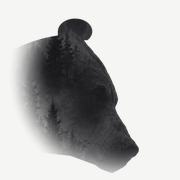
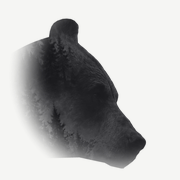
Сайт: значок — ухо как на обложке, голова чуть выше
Claude-Session: https://claude.ai/code/session_01Uu83MB45nkJX1tXJZPePva

diff --git a/site/index.html b/site/index.html
@@ -7,9 +7,9 @@
 <meta name="description" content="Лана Фрейтаг — любовные романы. Новые главы на Литнете.">
 <meta name="theme-color" content="#fbfbfd" media="(prefers-color-scheme: light)">
 <meta name="theme-color" content="#0f0f13" media="(prefers-color-scheme: dark)">
-<link rel="icon" type="image/png" sizes="32x32" href="icon-32.png?8">
-<link rel="icon" type="image/png" sizes="512x512" href="icon-512.png?8">
-<link rel="apple-touch-icon" href="icon-bear.png?8">
+<link rel="icon" type="image/png" sizes="32x32" href="icon-32.png?9">
+<link rel="icon" type="image/png" sizes="512x512" href="icon-512.png?9">
+<link rel="apple-touch-icon" href="icon-bear.png?9">
 <link rel="preconnect" href="https://fonts.googleapis.com">
 <link rel="preconnect" href="https://fonts.gstatic.com" crossorigin>
 <link rel="stylesheet" href="https://fonts.googleapis.com/css2?family=Cormorant:ital,wght@1,400;1,500&family=Golos+Text:wght@400;500&family=Oranienbaum&display=swap">

diff --git a/site/admin/index.html b/site/admin/index.html
@@ -5,9 +5,9 @@
 <meta name="viewport" content="width=device-width, initial-scale=1, viewport-fit=cover">
 <meta name="robots" content="noindex">
 <title>Сайт · админка</title>
-<link rel="icon" type="image/png" sizes="32x32" href="../icon-32.png?8">
-<link rel="icon" type="image/png" sizes="512x512" href="../icon-512.png?8">
-<link rel="apple-touch-icon" href="../icon-bear.png?8">
+<link rel="icon" type="image/png" sizes="32x32" href="../icon-32.png?9">
+<link rel="icon" type="image/png" sizes="512x512" href="../icon-512.png?9">
+<link rel="apple-touch-icon" href="../icon-bear.png?9">
 <link rel="preconnect" href="https://fonts.googleapis.com">
 <link rel="preconnect" href="https://fonts.gstatic.com" crossorigin>
 <link rel="stylesheet" href="https://fonts.googleapis.com/css2?family=Cormorant:ital,wght@1,400;1,500&family=Golos+Text:wght@400;500&family=Oranienbaum&display=swap">

diff --git a/AGENTS.md b/AGENTS.md
@@ -37,7 +37,7 @@
   последний призыв; на телефоне кнопка «Читать» внизу появляется, когда главная ушла из виду.
   Пустые разделы не показываются. Цитаты, отрывки, отзывы — только настоящие (из книг/от читателей), не выдумывать.
   Первый экран главной — без обложек книг: слева заголовок и кнопка, справа **медведь в тумане над лесом — кадр с её обложки
-  «Звериная тропа для двоих»** (`site/hero-bear.jpg`, без лица героини и названия; значок вкладки — как у крупных сайтов: прозрачный фон, крупно (на весь значок) настоящая голова медведя с той же обложки (глаз, нос, шерсть; затылок уходит в туман), с чётким силуэтом (контур профиля с обложки, ухо низкое и широкое, полукругом (высокое круглое на ножке она назвала неприличным, «палку» — тоже), челюсть точно по обложке: низ челюсти от подбородка идёт назад и ВВЕРХ (линия через x 905→848 при y 679→650 в координатах обложки), шеи нет; голова без поворота, как на обложке (толстую шею и второй подбородок она назвала «жирный»), затылок и низ растворяются мягко по кругу от морды (прямоугольные края растушёвки — нет), фактура внутри едва заметная, голова чуть приподнята — морда вперёд, внутри фактура обложки; затылок и шея тают к краю) — размытая голова во вкладке «сливается»; белый ореол на розовой вкладке некрасив; плитку под значком она не хочет; для iPhone (`icon-bear.png`) — на светлом фоне; чёрный силуэт (и обведённый, и нарисованный) она отвергла, мелкую голову в круге — тоже (`site/icon-32.png`, `icon-bear.png` 180, `icon-512.png`; рисованного кодом медведя она отвергла))
+  «Звериная тропа для двоих»** (`site/hero-bear.jpg`, без лица героини и названия; значок вкладки — как у крупных сайтов: прозрачный фон, крупно (на весь значок) настоящая голова медведя с той же обложки (глаз, нос, шерсть; затылок уходит в туман), с чётким силуэтом (контур профиля с обложки, ухо низкое и широкое, полукругом (высокое круглое на ножке она назвала неприличным, «палку» — тоже), челюсть точно по обложке: низ челюсти от подбородка идёт назад и ВВЕРХ (линия через x 905→848 при y 679→650 в координатах обложки), шеи нет; голова приподнята совсем чуть-чуть (на 8°); ухо — сглаженный контур уха с обложки, округлое, умеренной высоты, чуть отклонено назад (толстую шею и второй подбородок она назвала «жирный»), затылок и низ растворяются мягко по кругу от морды (прямоугольные края растушёвки — нет), фактура внутри едва заметная, голова чуть приподнята — морда вперёд, внутри фактура обложки; затылок и шея тают к краю) — размытая голова во вкладке «сливается»; белый ореол на розовой вкладке некрасив; плитку под значком она не хочет; для iPhone (`icon-bear.png`) — на светлом фоне; чёрный силуэт (и обведённый, и нарисованный) она отвергла, мелкую голову в круге — тоже (`site/icon-32.png`, `icon-bear.png` 180, `icon-512.png`; рисованного кодом медведя она отвергла))
   или другая картинка `photo`. Картинка 1300×1000: только голова медведя (ели ВНУТРИ силуэта — как на обложке, можно) из обложки
   в полном разрешении, мягко выходит из лёгкого тумана; дымка обложки переведена в белый (смешивание multiply с фоном).
   Текст и медведь — одна композиция строго по центру экрана (сетка 540px + 500px, медведь заходит под текст на 48px, текст сдвинут вправо до 48px — у медведя справа туман, так визуальный центр совпадает с центром экрана); картинка — в той же сетке, не absolute. У `.hero-in` нет z-index — иначе multiply не смешивается с фоном и виден белый прямоугольник.
